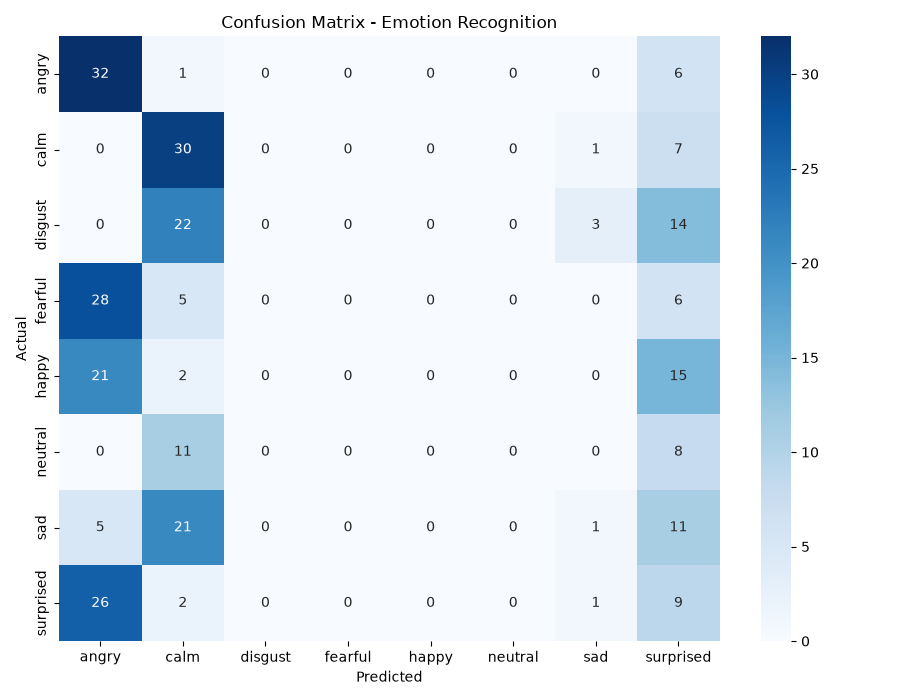
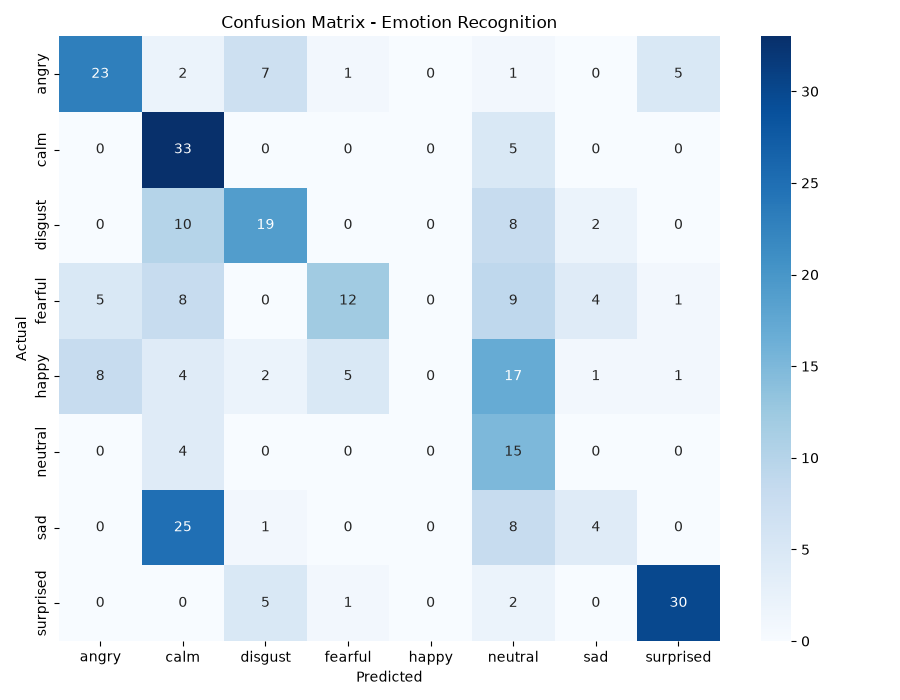
revert: remove class weighting, unweighted model performs better (47-49% accuracy)

diff --git a/src/train.py b/src/train.py
@@ -1,8 +1,11 @@
 """
-Phase 6 (fixed): Train the CNN on MFCC features to classify emotions.
-Uses a lower learning rate + ReduceLROnPlateau to fix the training
-instability seen with the default Adam learning rate (loss was stuck
-near ln(8), i.e. random-guessing level, and val_loss was spiking).
+Phase 6 (final): Train the CNN on MFCC features to classify emotions.
+Uses a lower learning rate + ReduceLROnPlateau for stable training.
+
+Note: class weighting was tried and reverted -- it overcorrected, pushing
+the model to over-predict the "neutral" class at the expense of others,
+and dropped overall test accuracy from ~49% to ~39%. Unweighted training
+gave the best overall result, so we keep it simple here.
 """
 
 import numpy as np